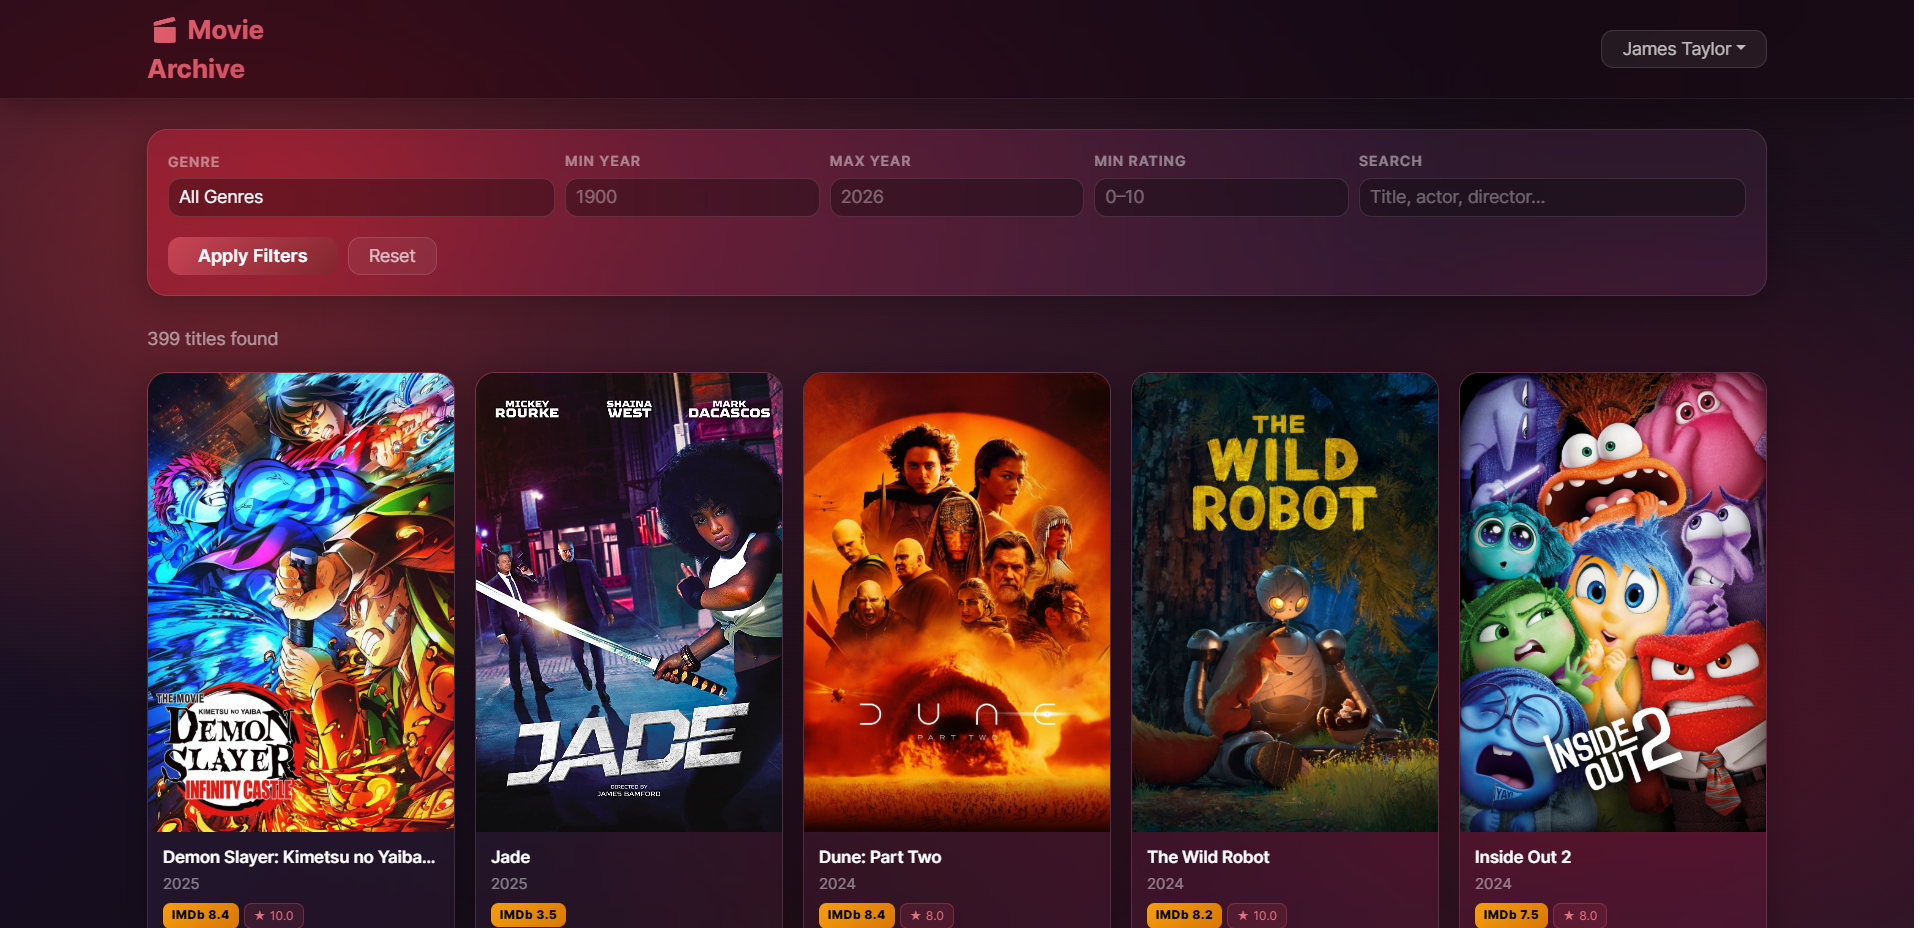
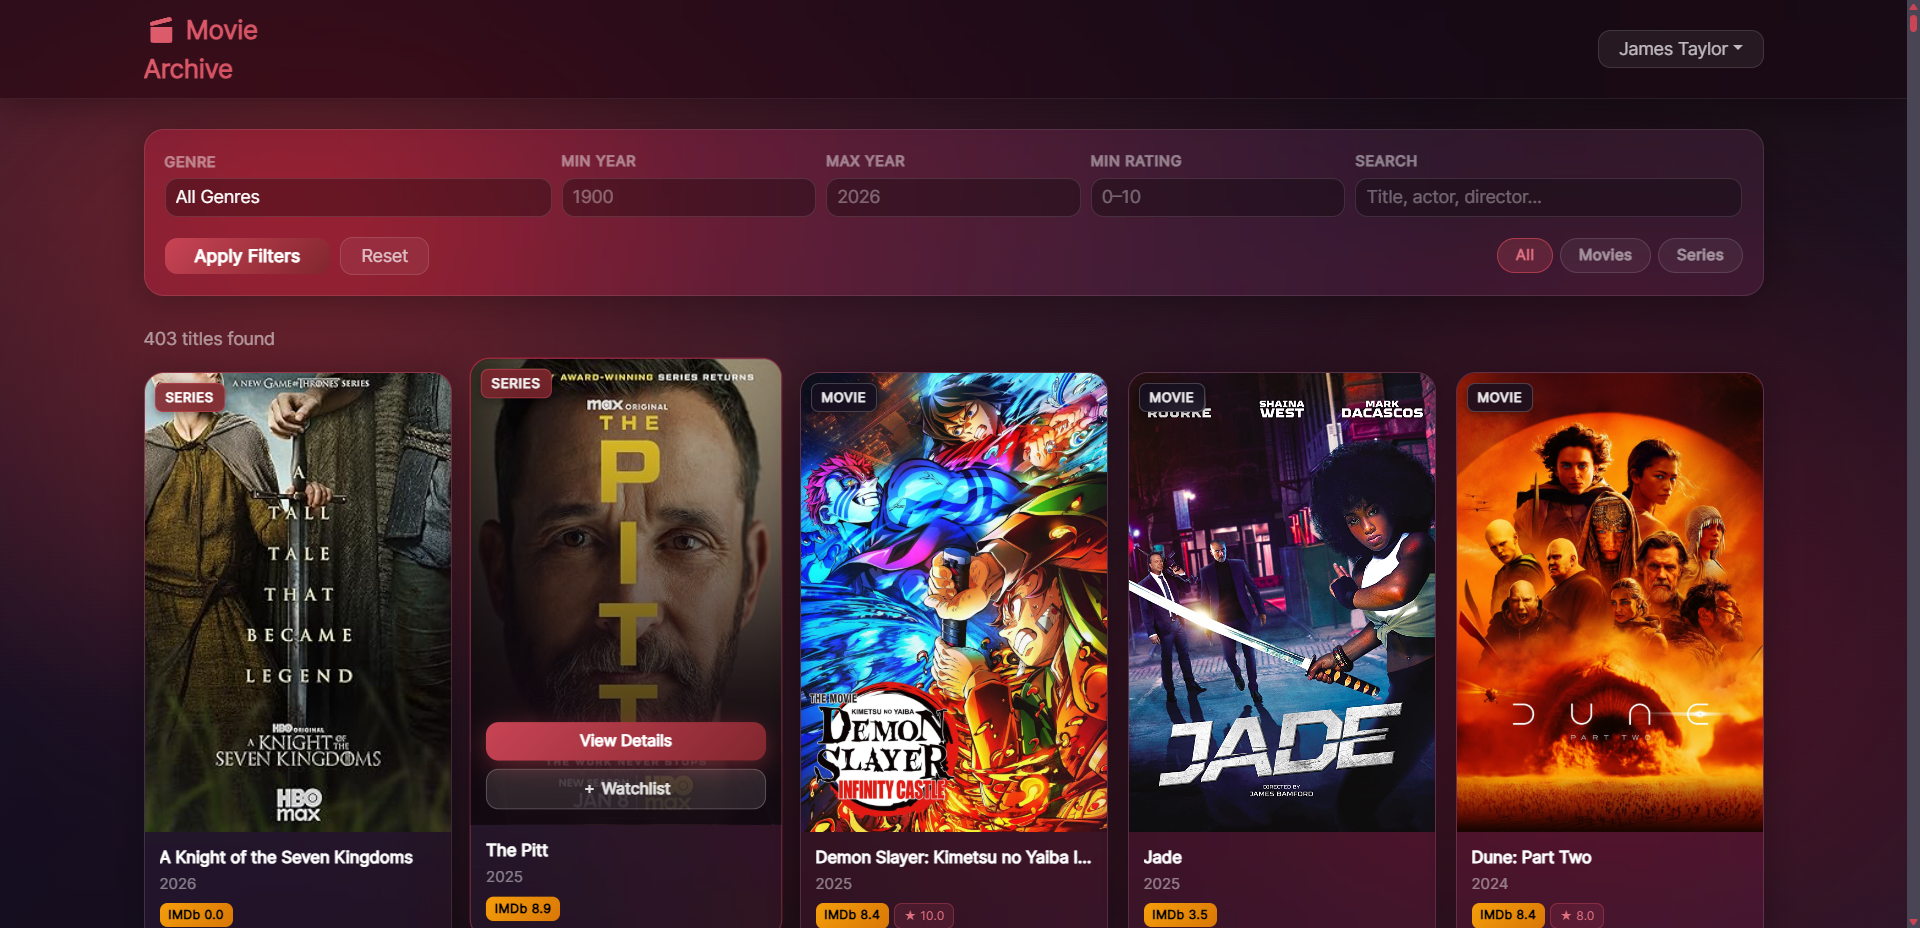
Update screenshots and add card watchlist screenshot to REPORT.md

diff --git a/REPORT.md b/REPORT.md
@@ -224,9 +224,9 @@ TV series detail shows an additional seasons/episodes accordion not present on m
 |---|---|---|
 | ![](screenshots/04_login_page.png) | ![](screenshots/07_register_page.png) | ![](screenshots/30_watch_history.png) |
 
-| Watchlists | Watchlist Detail |
-|---|---|
-| ![](screenshots/21_watchlists_page.png) | ![](screenshots/22_watchlist_detail.png) |
+| Watchlists | Watchlist Detail | Quick-add from card |
+|---|---|---|
+| ![](screenshots/21_watchlists_page.png) | ![](screenshots/22_watchlist_detail.png) | ![](screenshots/11_show_card_add_to_watchlist.png) |
 
 ### Admin Only
 
@@ -861,9 +861,9 @@ App
 
 The `Navbar` component renders different dropdown menus depending on auth state. Authenticated users see a profile dropdown; admin users get an additional admin dropdown:
 
-| User dropdown | Admin dropdown |
-|---|---|
-| ![](screenshots/08_navbar_user_dropdown.png) | ![](screenshots/09_navbar_admin_dropdown.png) |
+| User dropdown | Admin dropdown | Quick-add to watchlist (card hover) |
+|---|---|---|
+| ![](screenshots/08_navbar_user_dropdown.png) | ![](screenshots/09_navbar_admin_dropdown.png) | ![](screenshots/11_show_card_add_to_watchlist.png) |
 
 ### Props — Read-Only Data Flow
 
